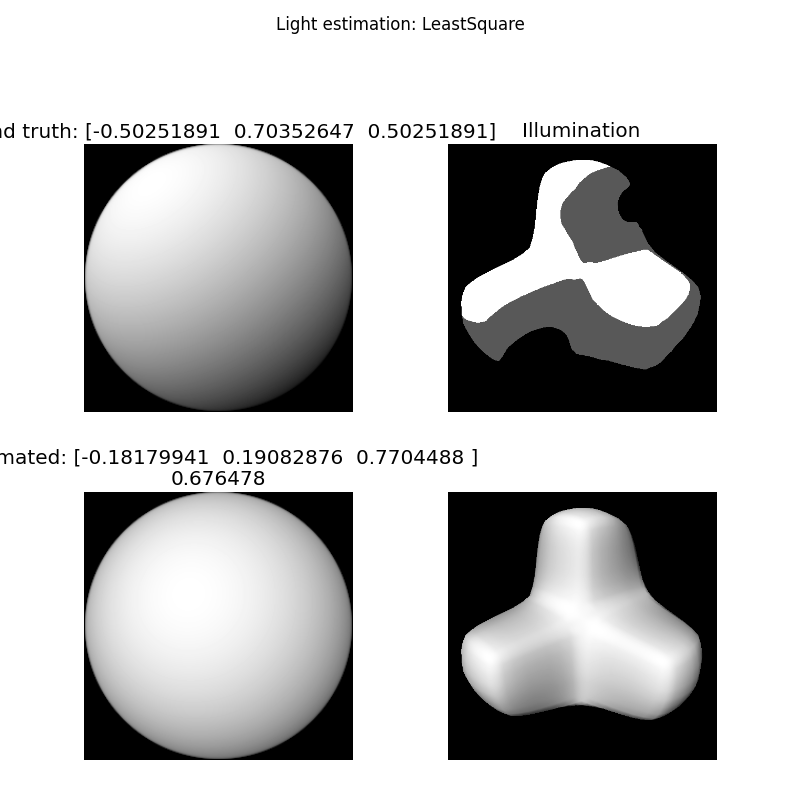
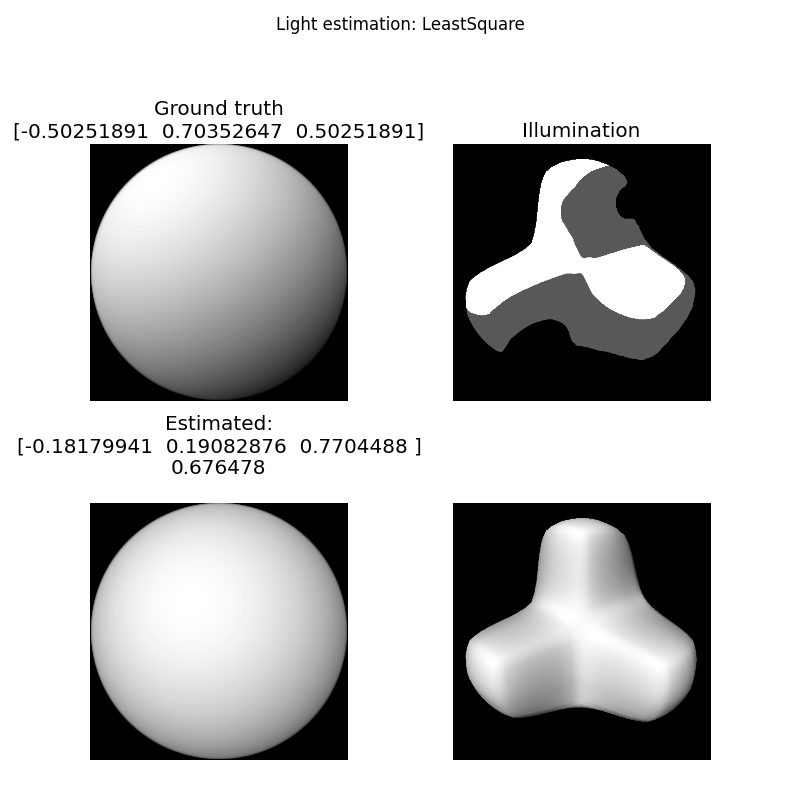
Update codes.

diff --git a/inversetoon/core/pixel_sampling.py b/inversetoon/core/pixel_sampling.py
@@ -1,0 +1,71 @@
+# -*- coding: utf-8 -*-
+## @package inversetoon.core.pixel_sampling
+#
+#  inversetoon.core.pixel_sampling utility package.
+#  @author      tody
+#  @date        2015/10/01
+
+import numpy as np
+from inversetoon.cv.image import to32F
+
+
+## Implementation of pixel sampling.
+#
+#  input image is automatically converted into np.float32 format.
+class PixelSampling:
+    ## Constructor
+    #  @param image          input image.
+    #  @param num_pixels     target number of pixels from the image.
+    def __init__(self, image, num_pixels=1000):
+        self._image = to32F(image)
+        self._num_pixels = num_pixels
+        self._pixels = None
+        self._coords = None
+        self._computeCoordinates()
+        self._pixels = self._image2pixels(image)
+
+    ## Pixels.
+    def pixels(self):
+        return self._pixels
+
+    ## Coordinates.
+    def coordinates(self):
+        return self._coords
+
+    def _computeCoordinates(self):
+
+        h, w = self._image.shape[:2]
+        xs = np.random.randint(w, size=self._num_pixels)
+        ys = np.random.randint(h, size=self._num_pixels)
+
+        coords = np.array([xs, ys]).T
+
+        self._coords = coords
+
+    def _image2pixels(self, image):
+        if _isGray(image):
+            return image[self._coords[:, 1], self._coords[:, 0]]
+
+        return image[self._coords[:, 1], self._coords[:, 0], :]
+
+
+def _isGray(image):
+    return len(image.shape) == 2
+
+
+if __name__ == '__main__':
+    import matplotlib.pyplot as plt
+
+    h, w = 500, 200
+    image = np.random.rand(h, w)
+
+    pixel_samples = PixelSampling(image)
+    coords = pixel_samples.coordinates()
+
+    plt.imshow(image)
+    plt.scatter(coords[:, 0], coords[:, 1])
+
+    plt.show()
+
+
+

diff --git a/inversetoon/core/light_estimation/light_estimation_common.py b/inversetoon/core/light_estimation/light_estimation_common.py
@@ -35,10 +35,10 @@ def estimateResultFunc(data_name, target_name,
 
     fig = plt.figure(figsize=(8, 8))
     fig.suptitle("Light estimation: %s" % method_name)
-    fig.subplots_adjust(left=0.05, bottom=0.05, right=0.95, top=0.82, wspace=0.02, hspace=0.3)
+    fig.subplots_adjust(left=0.05, bottom=0.05, right=0.95, top=0.82, wspace=0.02, hspace=0.4)
 
     plt.subplot(2, 2, 1)
-    plt.title("Ground truth: %s" % L_g)
+    plt.title("Ground truth\n%s" % L_g)
     showLightSphere(plt, L_g)
     plt.axis('off')
 
@@ -51,7 +51,7 @@ def estimateResultFunc(data_name, target_name,
 
     L, error = estimate_func(Ns, Is)
     plt.subplot(2, 2, 3)
-    plt.title("Estimated: %s\n%s" % (L, error))
+    plt.title("Estimated: \n%s\n%s\n" % (L, error))
     showLightSphere(plt, L)
     plt.axis('off')
 
